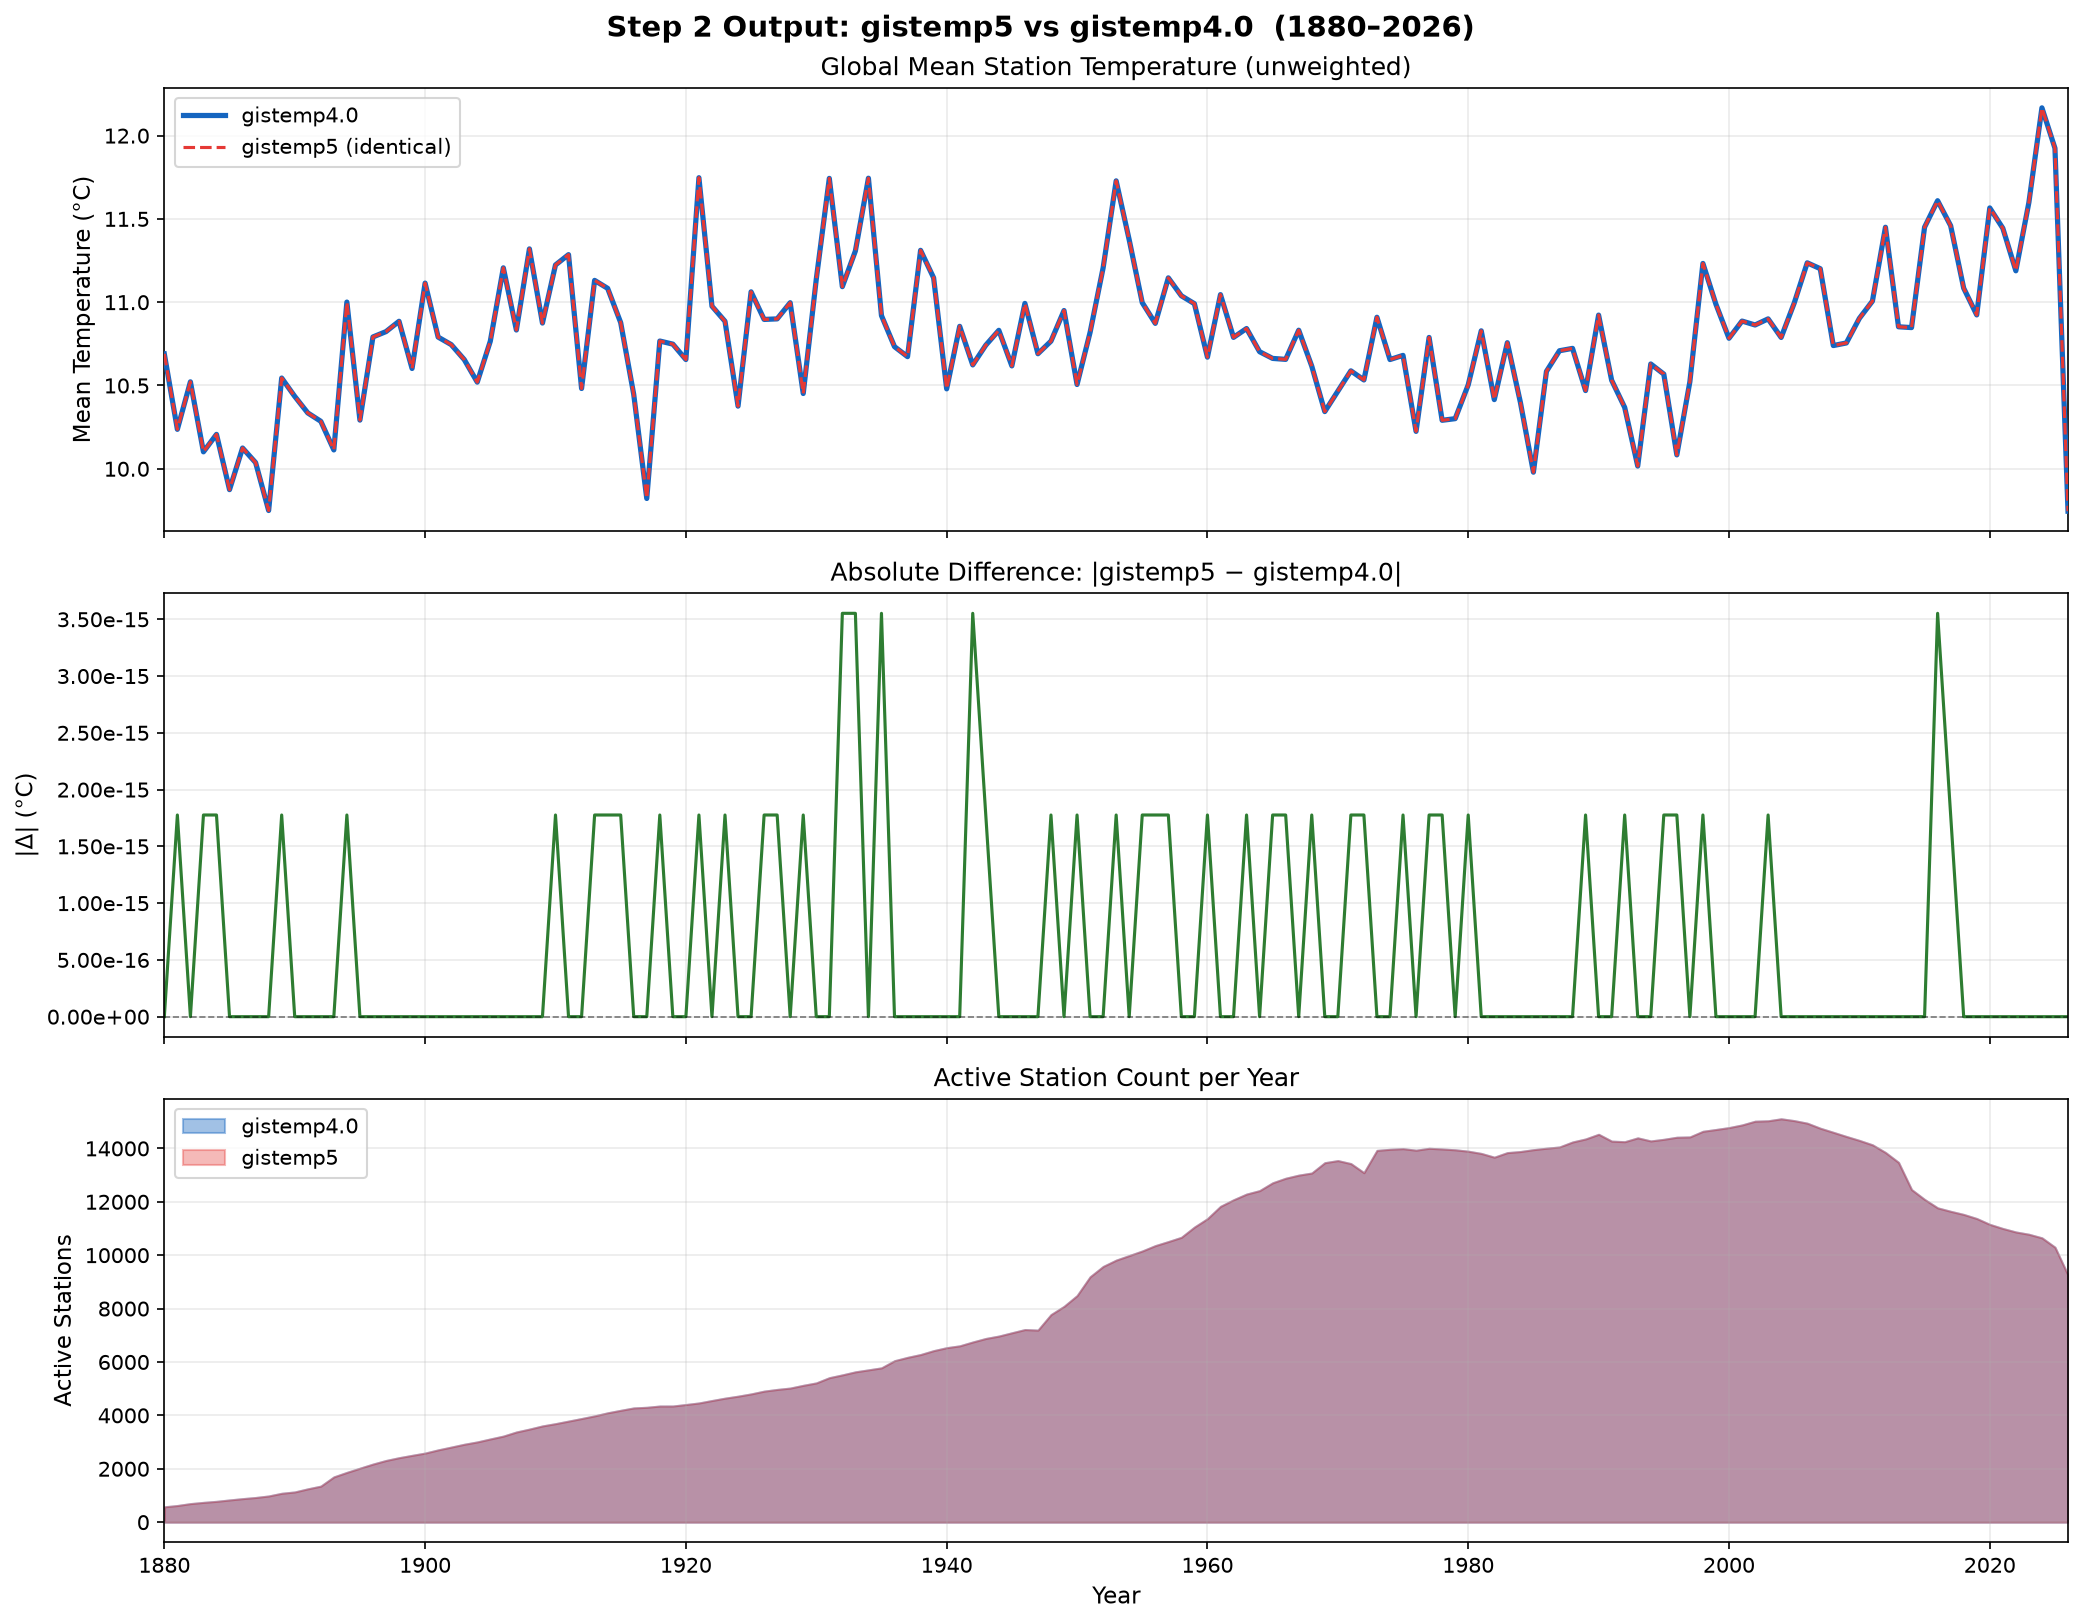
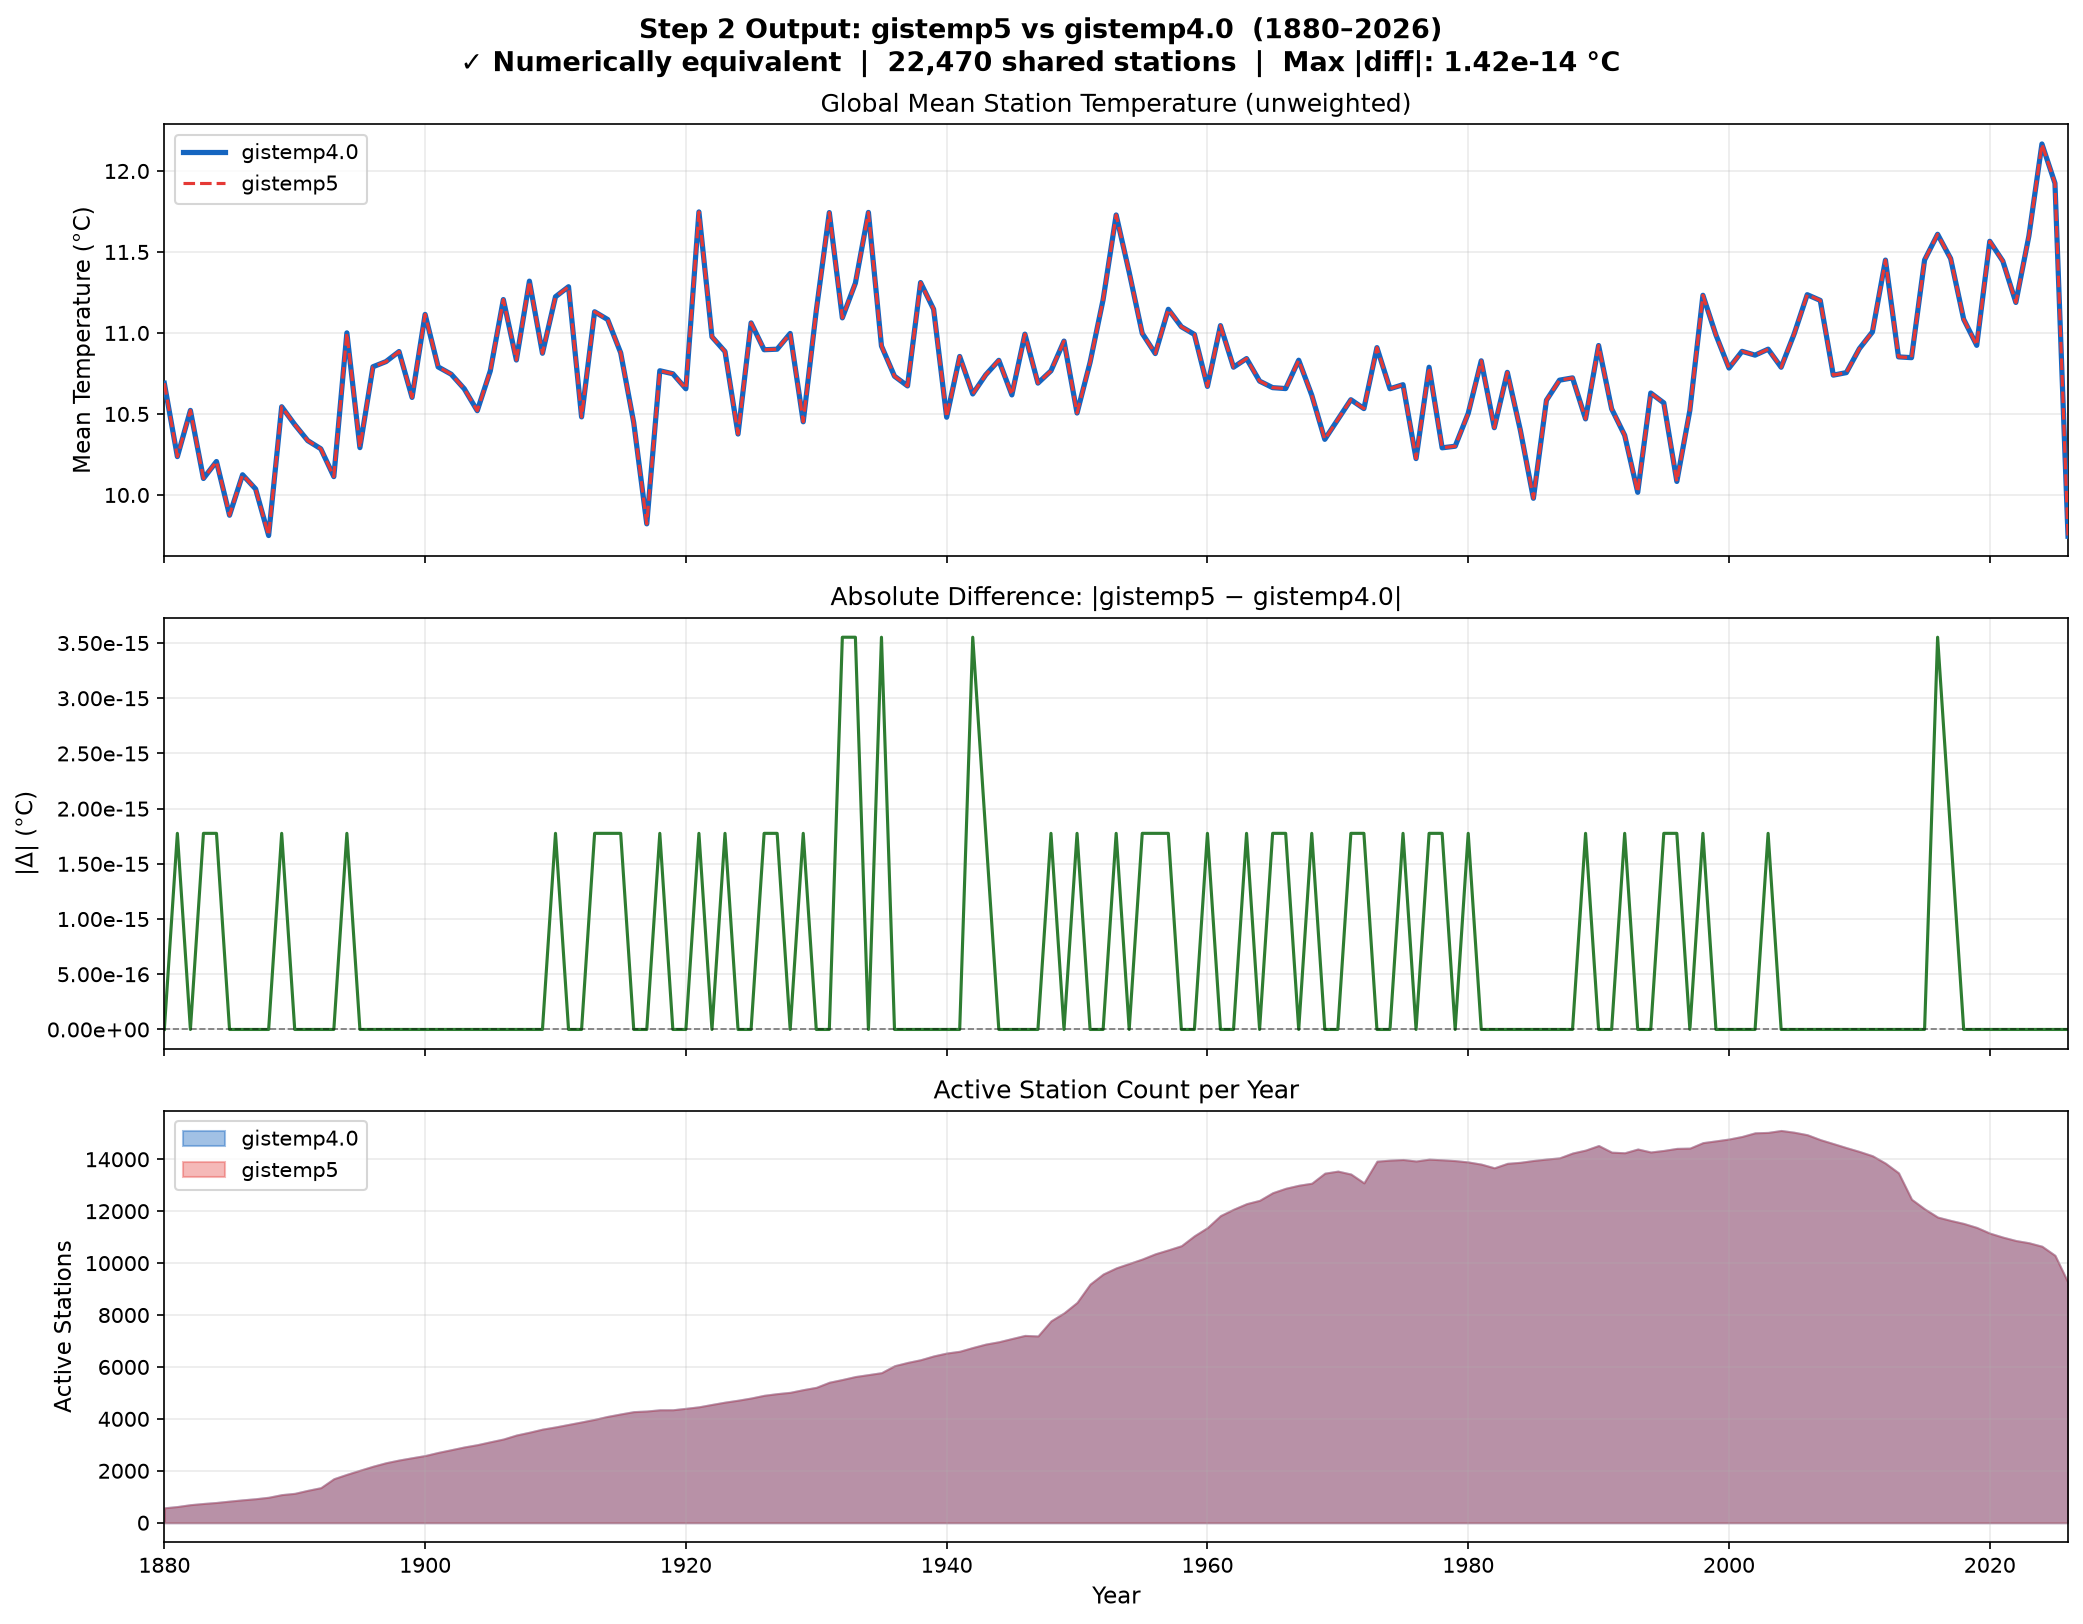
Add run_all.py; normalize step2 to match step0/step1 structure

diff --git a/visualization/step2_comparison.py b/visualization/step2_comparison.py
@@ -1,7 +1,7 @@
 """
-Plot global mean temperature and station count from step 2 outputs.
+Compare gistemp5 vs gistemp4.0 step 2 output.
 
-Requires cached step outputs. Run from repo root:
+Requires cached outputs. Run from repo root:
     python main/run.py                  # generates cache/step2_1880_2026.parquet
     python testing/compare_step2.py     # generates gistemp4.0/tmp/step2_cache.parquet
 Then:
@@ -27,11 +27,13 @@ from tools import cache as step_cache
 V4_CACHE = os.path.join(REPO_ROOT, 'gistemp4.0', 'tmp', 'step2_cache.parquet')
 OUT_PATH  = os.path.join(REPO_ROOT, 'visualization', 'step2_comparison.png')
 
+META_COLS = {'Latitude', 'Longitude', '__LastGHCNYear__'}
+
 
 def load_data():
     if not os.path.exists(V4_CACHE):
         raise FileNotFoundError(
-            f"gistemp4.0 cache missing: {V4_CACHE}\n"
+            f"gistemp4.0 step2 cache missing: {V4_CACHE}\n"
             "Run: python testing/compare_step2.py"
         )
     df4 = pd.read_parquet(V4_CACHE)
@@ -45,26 +47,21 @@ def load_data():
     return df4, df5
 
 
-def annual_global_mean(df, start_year, end_year):
-    years = range(start_year, end_year + 1)
+def annual_global_mean(df):
+    tc = [c for c in df.columns if c not in META_COLS]
+    years = sorted({int(c.split('_')[1]) for c in tc})
     means, counts = [], []
     for yr in years:
         cols = [f'{m}_{yr}' for m in range(1, 13) if f'{m}_{yr}' in df.columns]
-        if cols:
-            vals = df[cols].values
-            means.append(np.nanmean(vals))
-            counts.append(int(np.any(~np.isnan(vals), axis=1).sum()))
-        else:
-            means.append(np.nan)
-            counts.append(0)
-    idx = list(years)
-    return pd.Series(means, index=idx), pd.Series(counts, index=idx)
+        vals = df[cols].values
+        means.append(np.nanmean(vals))
+        counts.append(int(np.any(~np.isnan(vals), axis=1).sum()))
+    return pd.Series(means, index=years), pd.Series(counts, index=years)
 
 
-def validate(df5, df4):
-    meta = {'Latitude', 'Longitude', '__LastGHCNYear__'}
-    tc4 = [c for c in df4.columns if c not in meta]
-    tc5 = [c for c in df5.columns if c not in meta]
+def validate(df4, df5):
+    tc4 = [c for c in df4.columns if c not in META_COLS]
+    tc5 = [c for c in df5.columns if c not in META_COLS]
     shared_cols = sorted(set(tc4) & set(tc5), key=lambda c: (int(c.split('_')[1]), int(c.split('_')[0])))
     shared_sids = sorted(set(df4.index) & set(df5.index))
 
@@ -73,35 +70,45 @@ def validate(df5, df4):
     diff = (a - b).abs()
     both = ~a.isna() & ~b.isna()
 
+    n_differ = int((diff[both] > 1e-4).sum().sum())
     max_diff = float(diff.max().max())
-    print(f"  Shared stations       : {len(shared_sids):,}")
-    print(f"  Monthly cells compared: {int(both.sum().sum()):,}")
-    print(f"  NaN mismatches        : {int((a.isna() != b.isna()).sum().sum()):,}")
-    print(f"  Cells differing >1e-4 : {int((diff[both] > 1e-4).sum().sum()):,}")
-    print(f"  Max |diff| (°C)       : {max_diff:.2e}  (floating-point rounding, not a real disagreement)")
+    agreement = "✓ Numerically equivalent" if n_differ == 0 else f"✗ {n_differ:,} cells differ"
+
+    return {
+        'shared_sids': shared_sids,
+        'cells_compared': int(both.sum().sum()),
+        'nan_mismatch': int((a.isna() != b.isna()).sum().sum()),
+        'cells_differ': n_differ,
+        'max_diff': max_diff,
+        'agreement': agreement,
+    }
 
 
-def plot(df4, df5):
-    mean4, cnt4 = annual_global_mean(df4, START_YEAR, END_YEAR)
-    mean5, cnt5 = annual_global_mean(df5, START_YEAR, END_YEAR)
+def plot(df4, df5, stats):
+    mean4, cnt4 = annual_global_mean(df4)
+    mean5, cnt5 = annual_global_mean(df5)
 
     BLUE, RED, GREEN = '#1565C0', '#E53935', '#2E7D32'
 
     fig, axes = plt.subplots(3, 1, figsize=(14, 11), sharex=True)
-    fig.suptitle(f'Step 2 Output: gistemp5 vs gistemp4.0  ({START_YEAR}–{END_YEAR})',
-                 fontsize=14, fontweight='bold')
+    fig.suptitle(
+        f'Step 2 Output: gistemp5 vs gistemp4.0  ({START_YEAR}–{END_YEAR})\n'
+        f'{stats["agreement"]}  |  {len(stats["shared_sids"]):,} shared stations  |  '
+        f'Max |diff|: {stats["max_diff"]:.2e} °C',
+        fontsize=13, fontweight='bold'
+    )
 
     ax = axes[0]
     ax.plot(mean4.index, mean4.values, color=BLUE, lw=2.5, label='gistemp4.0', zorder=3)
-    ax.plot(mean5.index, mean5.values, color=RED, lw=1.5, ls='--',
-            label='gistemp5 (identical)', zorder=4)
+    ax.plot(mean5.index, mean5.values, color=RED, lw=1.5, ls='--', label='gistemp5', zorder=4)
     ax.set_ylabel('Mean Temperature (°C)', fontsize=11)
     ax.set_title('Global Mean Station Temperature (unweighted)', fontsize=12)
     ax.legend(fontsize=10)
     ax.grid(alpha=0.25)
 
     ax = axes[1]
-    ax.plot((mean5 - mean4).abs().index, (mean5 - mean4).abs().values, color=GREEN, lw=1.5)
+    abs_diff = (mean5 - mean4).abs()
+    ax.plot(abs_diff.index, abs_diff.values, color=GREEN, lw=1.5)
     ax.axhline(0, color='black', lw=0.8, ls='--', alpha=0.5)
     ax.set_ylabel('|Δ| (°C)', fontsize=11)
     ax.set_title('Absolute Difference: |gistemp5 − gistemp4.0|', fontsize=12)
@@ -126,7 +133,13 @@ def plot(df4, df5):
 if __name__ == '__main__':
     print("Loading data...")
     df4, df5 = load_data()
-    print("\nValidation:")
-    validate(df5, df4)
-    print("\nPlotting...")
-    plot(df4, df5)
+    print("Validating...")
+    stats = validate(df4, df5)
+    print(f"  {stats['agreement']}")
+    print(f"  Shared stations       : {len(stats['shared_sids']):,}")
+    print(f"  Monthly cells compared: {stats['cells_compared']:,}")
+    print(f"  NaN mismatches        : {stats['nan_mismatch']:,}")
+    print(f"  Cells differing >1e-4 : {stats['cells_differ']:,}")
+    print(f"  Max |diff| (°C)       : {stats['max_diff']:.2e}")
+    print("Plotting...")
+    plot(df4, df5, stats)

diff --git a/visualization/run_all.py b/visualization/run_all.py
@@ -1,0 +1,35 @@
+"""
+Run all visualization scripts.
+
+    python visualization/run_all.py
+"""
+
+import os
+import sys
+
+REPO_ROOT = os.path.dirname(os.path.dirname(os.path.abspath(__file__)))
+sys.path.insert(0, REPO_ROOT)
+
+import step0_summary
+import step1_summary
+import step2_comparison
+
+print("=== Step 0 ===")
+df4_0, df5_0 = step0_summary.load_data()
+stats_0 = step0_summary.validate(df4_0, df5_0)
+print(f"  {stats_0['agreement']}")
+step0_summary.plot(df4_0, df5_0, stats_0)
+
+print("\n=== Step 1 ===")
+df4_1, df5_1 = step1_summary.load_data()
+stats_1 = step1_summary.validate(df4_1, df5_1)
+print(f"  {stats_1['agreement']}")
+step1_summary.plot(df4_1, df5_1, stats_1)
+
+print("\n=== Step 2 ===")
+df4_2, df5_2 = step2_comparison.load_data()
+stats_2 = step2_comparison.validate(df4_2, df5_2)
+print(f"  {stats_2['agreement']}")
+step2_comparison.plot(df4_2, df5_2, stats_2)
+
+print("\nDone. Figures saved to visualization/")
